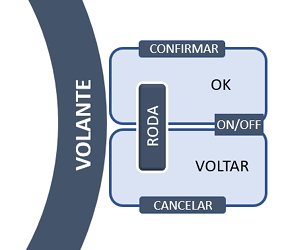
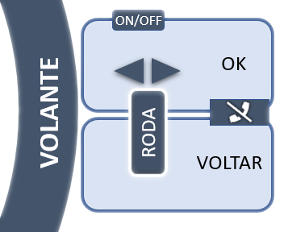
novos botões DIREITA e ESQUERDA

diff --git a/index.html b/index.html
@@ -49,22 +49,23 @@
                 </div>
                 <div class="controlador-container">
                     <div class="controlador-object">
-                        <img class="controlador-img" id='controlador' src="img/controlador_01.png" usemap="#image-map">
+                        <!-- <img class="controlador-img" id='controlador' src="img/controlador_01.png" usemap="#image-map">
                         <map name="image-map">
                             <area target="" alt="OK" title="OK" href="javascript:void(0)" coords="95,134,77,132,76,64,218,66,223,74,223,125,171,124,171,134,132,133,130,94,96,95" shape="poly" onclick="HUD.accoes.clickOK();">
                             <area target="" alt="CANCEL" title="CANCEL" href="javascript:void(0)" coords="222,211,76,213,74,146,95,144,95,183,131,182,132,145,166,145,167,150,221,150" shape="poly" onclick="HUD.accoes.clickBack();">
                             <area target="" alt="SCROLL" title="SCROLL - RODA" href="javascript:void(0)" coords="98,96,127,181" shape="rect" onwheel="HUD.accoes.scroll(event);">
                             <area target="" alt="ON/OFF" title="ON/OFF" href="javascript:void(0)" coords="173,150,222,125" shape="rect" onclick="HUD.accoes.clickONOFF();">
-                        </map>
-                        <!-- <img class="controlador-img" id='controlador' src="img/controlador_02.png" usemap="#image-map">
-                        <map name="image-map">
-                            <area target="" alt="OK" title="OK" href="javascript:void(0);" coords="113,52,137,50,139,60,223,59,227,50,262,50,265,112,215,114,213,122,169,122,170,83,137,82,136,121,114,118" shape="poly" onclick="HUD.accoes.clickOK();">
-                            <area target="" alt="CANCEL" title="CANCEL" href="javascript:void(0);" coords="113,133,136,131,136,172,169,173,169,134,212,133,217,140,264,139,264,199,230,202,229,195,139,194,137,205,113,202" shape="poly" onclick="HUD.accoes.clickBack();">
-                            <area target="" alt="SCROLL" title="SCROLL" href="javascript:void(0);" coords="141,85,166,167" shape="rect" onwheel="HUD.accoes.scroll(event);">
-                            <area target="" alt="ON/OFF" title="ON/OFF" href="javascript:void(0);" coords="216,117,263,134" shape="rect" onclick="HUD.accoes.clickONOFF();">
-                            <area target="" alt="CONFIRMAR" title="CONFIRMAR" href="javascript:void(0);" coords="141,40,223,56" shape="rect" onclick="HUD.accoes.clickCONFIRMAR();">
-                            <area target="" alt="CANCELAR" title="CANCELAR" href="javascript:void(0);" coords="141,196,226,212" shape="rect" onclick="HUD.accoes.clickCANCELAR();">
                         </map> -->
+                        <img class="controlador-img" id='controlador' src="img/controlador_02.png" usemap="#image-map">
+                        <map name="image-map">
+                            <area target="" alt="RODA" title="RODA" href="javascript:void(0);" coords="132,92,163,172" shape="rect" onwheel="HUD.accoes.scroll(event);">
+                            <area target="" alt="TERMINAR CHAMADA" title="TERMINAR CHAMADA" href="javascript:void(0);" coords="212,100,269,122" shape="rect" onclick="HUD.accoes.clickHANGUP();">
+                            <area target="" alt="ON/OFF" title="ON/OFF" href="javascript:void(0);" coords="115,12,163,27" shape="rect" onclick="HUD.accoes.clickONOFF();">
+                            <area target="" alt="ESQUERDA" title="ESQUERDA" href="javascript:void(0);" coords="114,71,145,57,145,83" shape="poly" onclick="HUD.accoes.clickLEFT();">
+                            <area target="" alt="DIREITA" title="DIREITA" href="javascript:void(0);" coords="153,58,180,70,152,86" shape="poly" onclick="HUD.accoes.clickRIGHT();">
+                            <area target="" alt="OK" title="OK" href="javascript:void(0);" coords="86,25,108,21,108,31,165,31,168,21,269,23,270,95,210,99,207,106,168,108,168,87,189,68,149,52,106,70,126,87,126,109,86,107" shape="poly" onclick="HUD.accoes.clickOK();">
+                            <area target="" alt="VOLTAR" title="VOLTAR" href="javascript:void(0);" coords="85,120,128,118,127,177,168,176,169,120,205,122,207,130,268,129,267,209,86,209" shape="poly" onclick="HUD.accoes.clickBack();">
+                        </map>
                     </div>
                 </div>
             </div>

diff --git a/ecraCHAMADAS/emChamadaController.js b/ecraCHAMADAS/emChamadaController.js
@@ -31,6 +31,9 @@ var emChamadaController = {
                 //pass
             }
         }
+
+        HUD.accoes.clickRIGHT = HUD.accoes.clickOK;
+        HUD.accoes.clickLEFT = HUD.accoes.clickBack;
     },
 
     //Carrega o HTML do proprio ecra
@@ -57,16 +60,17 @@ var emChamadaController = {
         //pass
     },
 
-    animatePhone(direction) {
-        setTimeout(function animateScheduled(direction) {
-            if (!direction) direction = -1;
+    animatePhone() {
+        var direction = -1;
+        setTimeout(function animateScheduled() {
             var jobj = $(".fa-phone-volume");
             if (! jobj.length) return;
             if (direction > 0)
                 jobj.animate({opacity: 1}, 1000);
             else
                 jobj.animate({opacity: 0}, 1000);
-            setTimeout(animateScheduled(-direction), 1000);    
+            direction = -direction;
+            setTimeout(animateScheduled, 1000);
         }, 0);
     }
 }

diff --git a/ecraRADIO/estacaoController.js b/ecraRADIO/estacaoController.js
@@ -44,6 +44,9 @@ var estacaoController = {
             radioController.setAccoesIniciais();
             radioController.updateInterface();
         }
+
+        HUD.accoes.clickRIGHT = HUD.accoes.clickOK;
+        HUD.accoes.clickLEFT = HUD.accoes.clickBack;
     },
 
     //Carrega o HTML do proprio ecra

diff --git a/ecraRADIO/radioController.js b/ecraRADIO/radioController.js
@@ -52,6 +52,9 @@ var radioController = {
             HUD.setEcraInactivo();
             HUD.setAccoesPadrao();
         }
+
+        HUD.accoes.clickRIGHT = HUD.accoes.clickOK;
+        HUD.accoes.clickLEFT = HUD.accoes.clickBack;
     },
     
     //Carrega o HTML do proprio ecra

diff --git a/ecraGPS/gpsController.js b/ecraGPS/gpsController.js
@@ -52,6 +52,9 @@ var gpsController = {
             HUD.setEcraInactivo();
             HUD.setAccoesPadrao();
         }
+
+        HUD.accoes.clickRIGHT = HUD.accoes.clickOK;
+        HUD.accoes.clickLEFT = HUD.accoes.clickBack;
     },
     
     //Carrega o HTML do proprio ecra

diff --git a/ecraGPS/escritaController.js b/ecraGPS/escritaController.js
@@ -68,6 +68,9 @@ var escritaController = {
                 escritaController.atualizaSugestao();
             }
         }
+
+        HUD.accoes.clickRIGHT = HUD.accoes.clickOK;
+        HUD.accoes.clickLEFT = HUD.accoes.clickBack;
     },
 
     atualizaSugestao: function(){

diff --git a/ecraHELP1/help1View.html b/ecraHELP1/help1View.html
@@ -1,6 +1,6 @@
 <!-- html do ecrã -->
 <div id="ecra-HELP1">
-    <img src="img/controlador_txt.png">
+    <img src="img/controlador_02.png">
     <ul>
         <li><b>SCROLL:</b> Navegar pelas opções e ecrãs</li>
         <li><b>OK:</b> Confirmar opções</li>

diff --git a/ecraCHAMADAS/chamadasController.js b/ecraCHAMADAS/chamadasController.js
@@ -50,6 +50,9 @@ var chamadasController = {
                 }
             }
         }
+
+        HUD.accoes.clickRIGHT = HUD.accoes.clickOK;
+        HUD.accoes.clickLEFT = HUD.accoes.clickBack;
     },
 
     updateInterface: function() {

diff --git a/ecraCHAMADAS/contactosController.js b/ecraCHAMADAS/contactosController.js
@@ -46,6 +46,9 @@ class contactosControllerBase {
                 }
             }
         }
+
+        HUD.accoes.clickRIGHT = HUD.accoes.clickOK;
+        HUD.accoes.clickLEFT = HUD.accoes.clickBack;
     }
 
     nextOption() {

diff --git a/core.js b/core.js
@@ -124,6 +124,9 @@ var HUD = {
                 }
             }
         }
+
+        HUD.accoes.clickRIGHT = HUD.accoes.clickOK;
+        HUD.accoes.clickLEFT = HUD.accoes.clickBack;
     },
 
     loadEcraView: function() {
